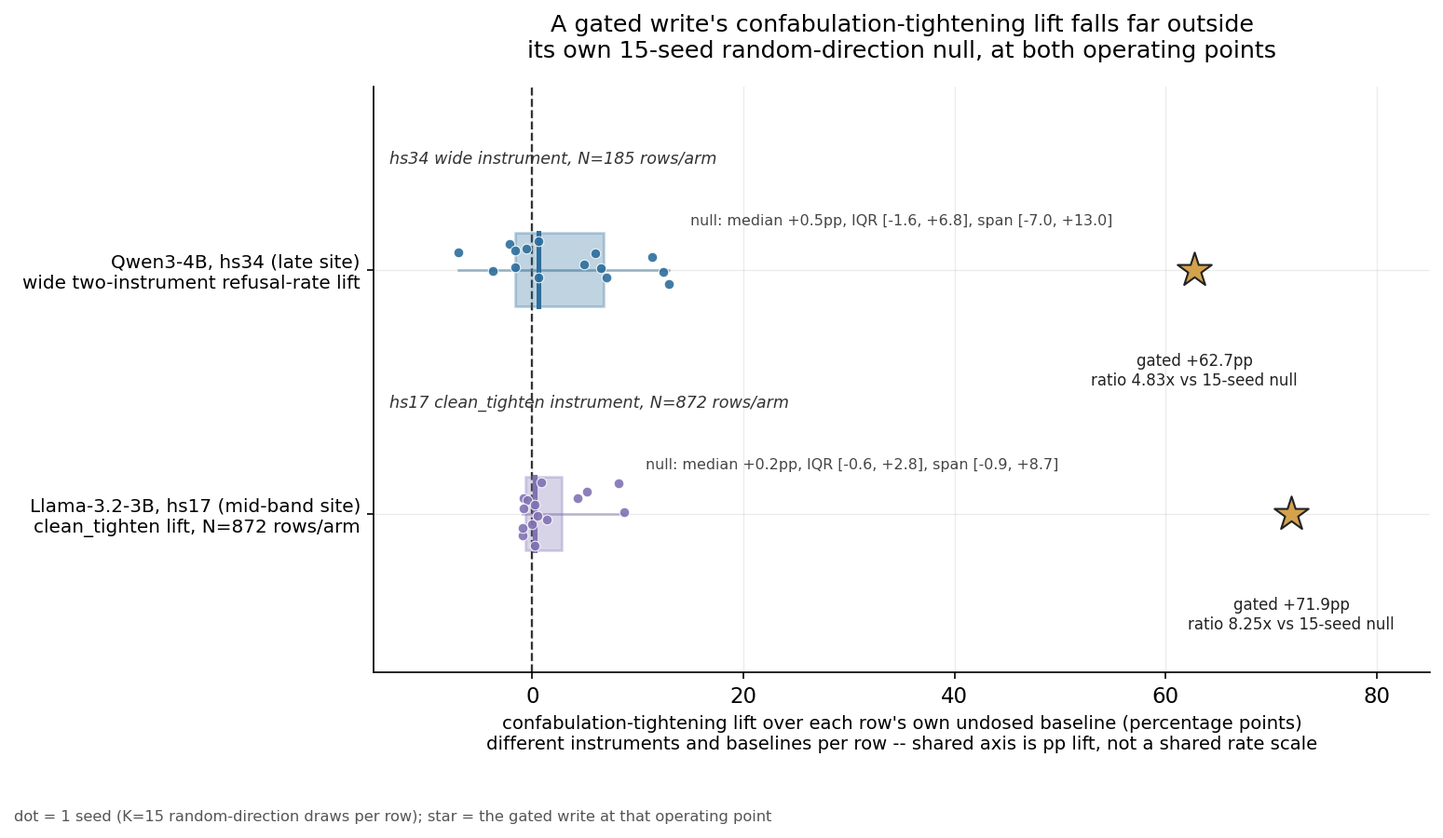
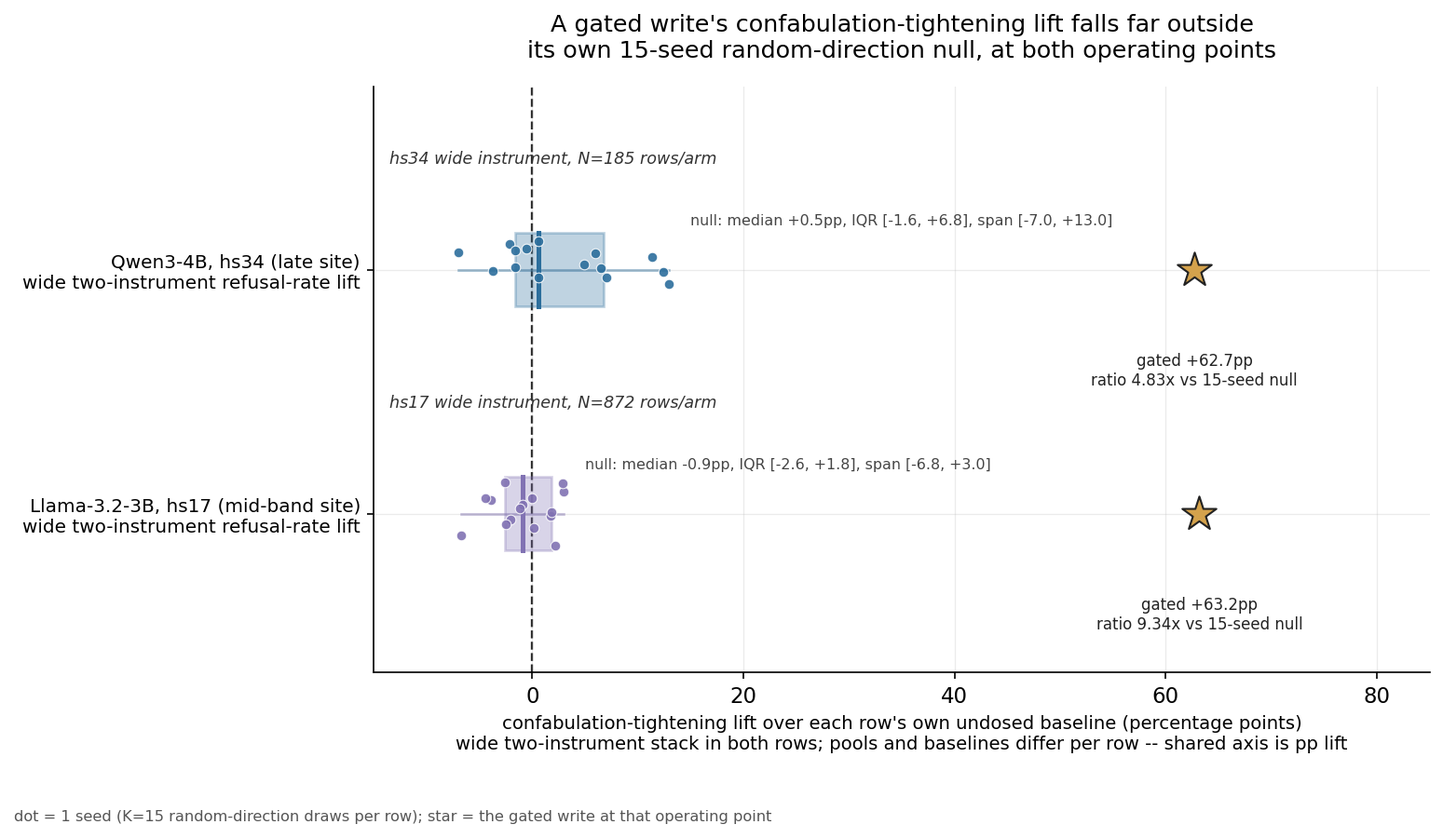
Paper 5: llama hs17 wide-instrument result (Outcome A) into 4.8/6.5, Figure 10 both rows wide
Section 4.8 Llama subsection now carries the wide two-instrument numbers
as the finding (wide baseline 0.156 to 0.788, net lift +63.2pp, ratio
9.34 over the fifteen-seed write-site null, with the narrow-instrument
ratio 8.25 as the independent same-point sample); Figure 10 rebuilt with
both rows under the wide stack (source switched to the wide-rescore
cell's committed gates report, reproduction audit updated to its
AMENDMENT Outcome); the write-site-null caution updated (the wide null
now exists); the Section 6.5 wide-re-score escalation item removed as
delivered (list renumbered); summary grid, map paragraph, recipe scope,
provenance evidence table, cell-status table, and Appendix D updated.

Claude-Session: https://claude.ai/code/session_012M6wLjiA3PHuTRN3V72TWD

diff --git a/papers/paper-5-actuation/scripts/build_specificity_census_fig.py b/papers/paper-5-actuation/scripts/build_specificity_census_fig.py
@@ -63,31 +63,42 @@ def close(a: float, b: float, tol: float) -> bool:
 
 # =========================================================================
 # Sources (committed result JSONs, no row-level text):
-#   Llama hs17: experiments/llama-hs17-direction-specificity/
-#     analysis-committed/llama-3.2-3b/specificity_summary.json
-#     (arm0_baseline.confab.rate, arm1_gated_replication.confab.rate,
-#      arm2_random_census.<seed>.rate)
+#   Llama hs17 (wide two-instrument stack, regenerated arms):
+#     experiments/llama-hs17-wide-instrument-rescore/
+#     analysis-committed/llama-3.2-3b/wide_gates_report.json
+#     (WR-G2.arm0_wide_confab.rate, WR-G2.net_lift,
+#      WR-G3.companion_descriptive.per_seed_signed_wide_lift.<seed>)
 #   Qwen hs34/L34: experiments/qwen3-4b-l34-placebo-seed-census/
 #     analysis-committed/wide_gates_report.json
 #     (QG_G1_distributional_specificity.frozen_baseline_rate,
 #      .frozen_gated_lift_over_baseline, per_seed.<seed>.confab_tighten_wide.rate)
 # Governed verdict text: each experiment's AMENDMENT.md, Outcome section.
 # =========================================================================
-LLAMA = load(EXP / "llama-hs17-direction-specificity" / "analysis-committed" / "llama-3.2-3b" / "specificity_summary.json")
+LLAMA = load(EXP / "llama-hs17-wide-instrument-rescore" / "analysis-committed" / "llama-3.2-3b" / "wide_gates_report.json")
 QWEN = load(EXP / "qwen3-4b-l34-placebo-seed-census" / "analysis-committed" / "wide_gates_report.json")
 
 
 def _llama_data():
-    baseline = LLAMA["arm0_baseline"]["confab"]["rate"]
-    gated_rate = LLAMA["arm1_gated_replication"]["confab"]["rate"]
-    gated_lift = gated_rate - baseline
-    seeds = sorted(LLAMA["arm2_random_census"].keys())
+    g2 = LLAMA["WR-G2"]
+    g3 = LLAMA["WR-G3"]
+    baseline = g2["arm0_wide_confab"]["rate"]
+    gated_lift = g2["net_lift"]
+    # cross-check the report's own arm1 rate against baseline + lift
+    assert close(g2["arm1_wide_confab"]["rate"], baseline + gated_lift, 1e-9)
+    per_seed = g3["companion_descriptive"]["per_seed_signed_wide_lift"]
+    seeds = sorted(per_seed.keys())
     assert len(seeds) == 15, f"llama: expected 15 random-census seeds, got {len(seeds)}"
-    lifts = [LLAMA["arm2_random_census"][s]["rate"] - baseline for s in seeds]
+    lifts = [per_seed[s] for s in seeds]
+    # cross-check against the report's per-seed wide rates
+    for s in seeds:
+        rate = g3["companion_descriptive"]["per_seed_wide"][s]["rate"]
+        assert close(rate - baseline, per_seed[s], 1e-9), s
     max_abs = max(abs(x) for x in lifts)
+    assert close(max_abs, g3["max_abs_random_lift"], 1e-9)
     effect_ratio = gated_lift / max_abs
-    n = LLAMA["arm0_baseline"]["confab"]["n"]
-    assert n == LLAMA["arm1_gated_replication"]["confab"]["n"] == 872
+    assert close(effect_ratio, g3["effect_ratio"], 1e-9)
+    n = g2["arm0_wide_confab"]["n"]
+    assert n == g2["arm1_wide_confab"]["n"] == 872
     return dict(baseline=baseline, gated_lift=gated_lift, lifts=lifts,
                 max_abs=max_abs, effect_ratio=effect_ratio, n=n)
 
@@ -121,8 +132,8 @@ def fig_specificity_census():
              label="Qwen3-4B, hs34 (late site)\nwide two-instrument refusal-rate lift",
              site_ann="hs34 wide instrument, N=185 rows/arm"),
         dict(key="llama", y=1, color=C_POOL2, data=llama,
-             label="Llama-3.2-3B, hs17 (mid-band site)\nclean_tighten lift, N=872 rows/arm",
-             site_ann="hs17 clean_tighten instrument, N=872 rows/arm"),
+             label="Llama-3.2-3B, hs17 (mid-band site)\nwide two-instrument refusal-rate lift",
+             site_ann="hs17 wide instrument, N=872 rows/arm"),
     ]
 
     box_h = 0.30
@@ -176,7 +187,7 @@ def fig_specificity_census():
     ax.set_ylim(0.35, 2.75)
     ax.set_xlim(-15, 85)
     ax.set_xlabel("confabulation-tightening lift over each row's own undosed baseline (percentage points)\n"
-                  "different instruments and baselines per row -- shared axis is pp lift, not a shared rate scale",
+                  "wide two-instrument stack in both rows; pools and baselines differ per row -- shared axis is pp lift",
                   fontsize=9.4)
     ax.set_title("A gated write's confabulation-tightening lift falls far outside\n"
                  "its own 15-seed random-direction null, at both operating points",
@@ -191,11 +202,11 @@ def fig_specificity_census():
 
     # ---- reproduction audit: recomputed values must equal the governed
     # AMENDMENT.md Outcome text for each experiment ----
-    # Llama: experiments/llama-hs17-direction-specificity/AMENDMENT.md,
-    # Outcome section (LG-G2 row and "Supporting numbers" bullets).
+    # Llama: experiments/llama-hs17-wide-instrument-rescore/AMENDMENT.md,
+    # Outcome section (WR-G2 and WR-G3 rows).
     LLAMA_CHECK = dict(
-        gated_lift=0.7190, max_abs_random_lift=0.0872, effect_ratio=8.25,
-        median_lift=0.0023, sign_pos=9, sign_neg=5, sign_zero=1,
+        gated_lift=0.6319, max_abs_random_lift=0.0677, effect_ratio=9.34,
+        median_lift=-0.0092, sign_pos=6, sign_neg=8, sign_zero=1,
     )
     lifts_llama = llama["lifts"]
     assert close(llama["gated_lift"], LLAMA_CHECK["gated_lift"], 0.0005)

diff --git a/papers/paper-5-actuation/manuscript.md b/papers/paper-5-actuation/manuscript.md
@@ -1173,31 +1173,35 @@ Llama carries a direction-specific verified write — at its own
 profile-selected mid-band site, not at the read-selected sites the atlas
 ladder dosed. At hs17, relative depth 0.607, the one Llama site that
 clears a held-out abstention floor (Section 6.5), the gated write reaches
-held-out confabulation tightening of 635/872 = 0.728 (Wilson 95% CI
-[0.698, 0.757]) against a 0.50 floor. And it is direction-specific:
-against fifteen matched-dose random unit directions at the same site, the
-strongest random arm reaches 0.096, a lift of +8.7 points over the 0.9%
-undosed baseline against the gated write's +71.9, an effect ratio of 8.25
-against the 3.0 floor. The known-correct cost gate is not adjudicable at
-this operating point, and the reason is itself the selectivity the gate
-exists to supply: the known-unknown gate fires on 0 of 334 held-out
-known-correct rows, so there is no fired population to measure a cost rate
-on, and the unconditional 0/334 false refusals is reported descriptively
-rather than as a gated claim. The result stands on the parent cell's
-narrow clean-tightening instrument; a wide-instrument re-score, with a
-write-site null under the wide stack, is what stands between these numbers
-and the wide-instrument rows above.
+held-out confabulation tightening of 637/872 = 0.731 (Wilson 95% CI
+[0.700, 0.759]) against a 0.50 floor, and under the wide two-instrument
+stack, the same instrument set the Mistral and Qwen wide rows above carry,
+it lifts wide-instrument abstention from a 15.6% undosed baseline to
+78.8%, a net lift of +63.2 points. It is direction-specific under that
+stack: against fifteen matched-dose random unit directions at the same
+site and dose, the largest absolute wide lift any random direction
+produces is 6.8 points, an effect ratio of 9.34 against the 3.0 floor,
+and the random census has no consistent sign (six seeds up, eight down,
+median −0.9 points). The same fifteen directions under the narrow
+clean-tightening instrument give a ratio of 8.25 on an independent sample
+of the same operating point, so the verdict does not depend on the
+instrument. The known-correct cost gate is not adjudicable at this
+operating point, and the reason is itself the selectivity the gate exists
+to supply: the known-unknown gate fires on 0 of 334 held-out known-correct
+rows, so there is no fired population to measure a cost rate on, and the
+unconditional 0/334 false refusals is reported descriptively rather than
+as a gated claim.
 
 ![FIG-P5-10: Gated-write abstention lift versus a fifteen-seed random-direction null at the Qwen late-site and Llama mid-band operating points](figures/fig-p5-10-specificity-census.png)
 **Figure 10.** The gated write sits far outside its own fifteen-seed
 random-direction null at both operating points that pass the distributional
-specificity test: raw-base Qwen3-4B at the late site hs34 under the wide
-two-instrument stack (gated +62.7 points over baseline, largest random
-+13.0, ratio 4.83) and Llama-3.2-3B at its mid-band site hs17 under the
-narrow clean-tightening instrument (gated +71.9 points, largest random
-+8.7, ratio 8.25). Each row's lifts are percentage points over that row's
-own undosed baseline; the rows use different instruments and pools, so the
-shared axis compares lifts, not a common rate scale.
+specificity test, both scored under the wide two-instrument stack: raw-base
+Qwen3-4B at the late site hs34 (gated +62.7 points over baseline, largest
+random +13.0, ratio 4.83) and Llama-3.2-3B at its mid-band site hs17
+(gated +63.2 points, largest random +6.8, ratio 9.34). Each row's lifts
+are percentage points over that row's own undosed baseline; the rows use
+different pools and baselines, so the shared axis compares lifts, not a
+common rate scale.
 
 At the read-selected atlas sites, by contrast, Llama is not shown actuable:
 the gated write fails on format collapse before reaching the refusal
@@ -1216,11 +1220,10 @@ A caution travels with Llama's entry in the placebo census below, and it
 applies well beyond Llama. Read-optimal and actuate-optimal depth are
 separately measured quantities in this paper, and for Llama they are not
 the same site: that census distribution is measured at its read-selected
-site, relative depth 0.714. The write site has its own fifteen-seed null
-under the narrow instrument — random directions at hs17 land between 0.0%
-and 9.6% tightening against the gated write's 72.8% — but no
-wide-instrument null exists at the write depth, so the suppressive
-read-site distribution should not be quoted as the write site's null.
+site, relative depth 0.714, and it is suppressive there. The write site
+carries its own fifteen-seed null, measured under both instruments
+(Figure 10), and the two distributions do not resemble each other, so
+the read-site distribution should not be quoted as the write site's null.
 
 #### Gemma
 
@@ -1337,9 +1340,10 @@ sign is not homogeneous within a family either.
 
 Read together, the four families fall along a spectrum rather than splitting
 into pass and fail. Qwen passes direction-specificity against the 3.0 floor.
-Llama passes it too, at its own mid-band write site (8.25 under the narrow
-instrument, with a fifteen-seed denominator), while remaining not shown
-actuable at its read-selected sites. Mistral actuates, with its benefit and
+Llama passes it too, at its own mid-band write site (9.34 under the wide
+two-instrument stack, 8.25 under the narrow, both with fifteen-seed
+denominators), while remaining not shown actuable at its read-selected
+sites. Mistral actuates, with its benefit and
 cost gates clearing, but reaches only
 1.87 at the site tested here and 2.03 on an independent re-measurement at the
 same operating point, on fresh rows under a stricter fifteen-seed
@@ -1364,7 +1368,7 @@ Taken together, the channels sort by how far each one gets before it breaks.
 | Write site, mid-band versus late (Qwen3-4B) | Mid-band wins by 22.7 points at +0.78 points of cost |
 | Token-target write (Qwen3-4B, mid-band) | Real on its own (47.6%), redundant on top of the boundary push (+0.54 points) |
 | Cross-family, Mistral-7B-v0.3 | Benefit and cost gates pass under a blinded wide instrument; direction-specificity fails at every site tested |
-| Cross-family, Llama-3.2-3B | At its own mid-band site (hs17) the gated write clears its held-out abstention floor (0.728) and is direction-specific (ratio 8.25 over fifteen seeds, narrow instrument; cost gate not adjudicable, KU fires 0/334). At its read-selected atlas-band sites it fails on format collapse before the refusal floor, under narrow and wide instruments alike |
+| Cross-family, Llama-3.2-3B | At its own mid-band site (hs17) the gated write clears its held-out abstention floor (0.731) and is direction-specific under both instruments (ratio 9.34 wide, 8.25 narrow, fifteen seeds each; cost gate not adjudicable, KU fires 0/334). At its read-selected atlas-band sites it fails on format collapse before the refusal floor, under narrow and wide instruments alike |
 | Cross-family, Gemma-4-E4B | Behavioral gates pass at four of the eight depths tested; no tested site reaches the direction-specificity floor |
 
 Five readings come out of that grid.
@@ -1403,7 +1407,7 @@ Five readings come out of that grid.
    known-correct cost, while direction-specificity fails on Mistral at
    three independent operating points and on gemma at both above-seam sites
    where a usable dose existed. Llama cuts the other way: specificity fails
-   at every read-selected site and verifies at 8.25 at the family's own
+   at every read-selected site and verifies at 9.34 at the family's own
    mid-band write site. The boundary is a site-selection boundary, not a
    family one: specificity appears where a family's own site search finds
    it, and the Qwen and Llama searches have found it so far.
@@ -1676,8 +1680,9 @@ Recommended escalation, in order of priority:
    linearly in all four families audited, and a held-out contrast at each
    family's own profile-selected mid-band site has since run on two of the
    four registered families: Llama clears its abstention floor at its own
-   mid-band site, with its placebo arm passing (clean tightening 0.728
-   against a 0.50 floor, ratio 8.25 over fifteen seeds, Section 4.8), and
+   mid-band site, with its placebo arm passing under both instruments
+   (clean tightening 0.731 against a 0.50 floor; ratio 9.34 wide and 8.25
+   narrow over fifteen seeds, Section 4.8), and
    Mistral misses the same floor marginally (0.489, with its confidence
    interval straddling the floor). The roll-up rule declares fewer than
    three families inconclusive, so the cross-family question is still
@@ -1703,29 +1708,17 @@ Recommended escalation, in order of priority:
    instability; either way, a future attempt needs an operating point where
    the nonspecific response is small or stable, with its placebo criterion
    registered against the family's measured null distribution there.
-4. A Llama operating point under the wide instrument. The wide-instrument
-   retest of Llama's atlas sites forecloses that ladder: no dose both
-   clears the abstention floor and leaves output well-formed,
-   so a held-out pass is not reachable at those sites. The mid-band route
-   delivers what the atlas route cannot: the hs17 write clears its
-   held-out abstention floor and passes direction-specificity at 8.25 over
-   fifteen seeds (Section 4.8), under the parent's narrow instrument. The
-   remaining ask is the wide-instrument re-score of that operating point —
-   including a write-site random-direction null under the wide stack,
-   since the suppressive read-site census cannot stand in for it — before
-   Llama's mid-band numbers are set beside the wide-instrument rows of the
-   other families.
-5. Gemma's key-value sharing seam: the coverage question is closed (Section
+4. Gemma's key-value sharing seam: the coverage question is closed (Section
    4.8 and Appendix F) and the mechanism question is not. It cannot be settled
    by writing to
    more above-seam sites, because relative depth and sharing status are the
    same variable across all of them; it needs an ablation that suppresses key
    and value sharing without breaking the model, which the one built here did
    not manage.
-6. Dense-token screen: separately screen abstract or multilingual token
+5. Dense-token screen: separately screen abstract or multilingual token
    bundles before any causal hybrid run, as a follow-on to the natural-token
    result in Section 4.7.
-7. Adjacent behavioral axes. An interim pilot on an answer-sycophancy
+6. Adjacent behavioral axes. An interim pilot on an answer-sycophancy
    direction found it readable while its actuator failed to beat a matched
    control. It is not a governed result and carries no evidence here, but the
    pattern it points at, a readable behavioral direction that does not become
@@ -1835,7 +1828,7 @@ argument belongs to the mid-band point where the null is measured as a
 distribution and is no part of the recipe — at the raw-base late site the
 random null has no consistent sign, and the specificity claim there rests on
 the 4.83 distributional ratio alone — and the recipe is not Qwen-only, since
-Llama's own mid-band site verifies at 8.25 over fifteen seeds. What remains
+Llama's own mid-band site verifies at 9.34 over fifteen seeds. What remains
 open is Mistral: if an operating point with a small or stable nonspecific
 response still fails the ratio test, and gemma's seam ablation never yields a
 clean site, the recipe reading narrows to families whose site search finds a
@@ -1928,6 +1921,7 @@ and its recorded status.
 | Initial cross-family run: gated write does not actuate FIT-viable canonical clean refusal at either atlas-located non-Qwen site under the locked three-phrase detector; Llama fails on format collapse before the refusal floor, Mistral peaks 0.579 vs the 0.60 floor with the miss substantially canonical-phrase coverage | `experiments/rr-cross-family-raw-refusal/AMENDMENT.md` Outcome | Exploratory falsification (detector-vocabulary scope disclosed; superseded by the RR2 wide-instrument re-read on Mistral and the Llama wide-instrument retest) |
 | Llama wide-instrument retest: shape F robust to the certified wide instrument; the wide stack credits idioms the narrow detector missed (best well-formed rung 0.328 -> 0.457) but no well-formed rung reaches the 0.60 floor, and the rungs above 0.5 are format-broken with runaway known-correct false refusal; at the well-formed peak the effect is direction-specific (ratio 3.73) | `experiments/llama-atlas-gated-wide-instrument-retest/AMENDMENT.md` Outcome | Exploratory confirmation (R1: Llama not a coverage artifact) |
 | Llama hs17 mid-band write replicates held-out (clean tightening 635/872 = 0.7282, Wilson [0.6977, 0.7567], vs parent 0.7420) and is direction-specific against 15 matched-dose random directions (strongest random arm 0.0963, gated lift 0.7190 vs max abs random lift 0.0872, effect ratio 8.25 vs 3.0 floor); known-correct cost gate NOT-ADJUDICABLE (KU fired 0/334; unconditional false refusal 0/334 descriptive), as pre-registered; narrow parent instrument, no wide re-score | `experiments/llama-hs17-direction-specificity/AMENDMENT.md` Outcome | Exploratory, resolved; prediction confirmed |
+| Wide-instrument regeneration of the Llama hs17 operating point (same 15 random-direction seeds, fresh decode seed, text-persisting harness): regeneration bridge 637/872 = 0.7305 narrow clean tightening (third consistent sample: parent 0.7420, resolved narrow cell 0.7282); wide net lift 0.6319 (arm0 136/872 = 0.1560, arm1 687/872 = 0.7878) vs a 0.30 floor; effect ratio 9.34 vs 3.0 (max abs random wide lift 0.0677, census 6+/8-/1 zero, median -0.0092); cost gate NOT-ADJUDICABLE (KU fired 0/334); grader calibration 19/19 shards, pooled clear-positive 534/691 = 0.7728 | `experiments/llama-hs17-wide-instrument-rescore/AMENDMENT.md` Outcome | Exploratory, resolved; Llama direction-specificity instrument-robust (Outcome A) |
 | Raw-base Qwen3-4B late-site (hs34) 15-seed placebo census: specificity survives the distributional denominator (max abs random lift 13.0pp, effect ratio 4.83 vs 3.0 floor, QG-G1 PASS) but sign-consistency fails (6/15 seeds negative vs >=12 required, QG-G2 FAIL); the historical seed draw's -4.3pp suppressive lift is a draw accident; specificity claim upgraded to distributional form, sign-opposition claim retired | `experiments/qwen3-4b-l34-placebo-seed-census/AMENDMENT.md` Outcome | Exploratory, resolved MIXED; reported straight |
 | Mistral cross-family gated write cleared benefit (69.9% adjudicated refusal) and cost (0.52% known-correct) gates under a wide blinded instrument but failed the flat 2-point placebo tolerance (+7.39pp random-direction lift) | `experiments/rr2-mistral-adjudicated-refusal-confirm/AMENDMENT.md` Outcome | Exploratory falsification (placebo-criterion design flaw, not benefit/cost) |
 | Wide-instrument baseline hedging and placebo response are family-graded and family-signed (qwen -5.13pp suppression, Mistral +7.39pp recruitment); flat placebo tolerances must be registered per-family | `experiments/abstention-wide-instrument-calibration/AMENDMENT.md` Outcome | Exploratory instrument calibration, resolved |
@@ -1985,6 +1979,7 @@ Generated by `papers/paper-5-actuation/scripts/build_coverage_table.py` (determi
 | `rr-cross-family-raw-refusal` | falsified | checkpoint.repo (verbatim): "cross-family (two atlas-mapped substrates)"; checkpoint.revision (verbatim): "see cell.yaml families (revisions pinned from fleet model_matrix.yaml at sign)". DECLARED in cell.yaml: unsloth/Llama-3.2-3B-Instruct @ 006f5dcd1393c3add266de40994ba96225e9689d; mistralai/Mistral-7B-Instruct-v0.3 @ c170c708c41dac9275d15a8fff4eca08d52bab71; confirmatory execution model (batch verbs for baseline/capture; mechinterp steer for writes) | DECLARED 3 checkpoint(s) (matrix) -- LAUNCHED subset is NOT machine-separable from YAML; see AMENDMENT.md Outcome. Governed verdict field: "Falsified, both families shape F: the doubt-gated caution write does not actuate FIT-viable canonical clean refusal at either atlas-located non-Qwen site; llama fails on format collapse before the refusal floor (robust t..." | 4.8, 6.5 |
 | `llama-atlas-gated-wide-instrument-retest` | resolved | `unsloth/Llama-3.2-3B-Instruct` @ `006f5dcd1393c3add266de40994ba96225e9689d` | 1 declared / 1 launched (single-substrate cell) | 4.8 |
 | `llama-hs17-direction-specificity` | resolved | `unsloth/Llama-3.2-3B-Instruct` @ `raw-base (bf16 instruct, no adapter, no 4-bit quantization)` | 1 declared / 1 launched (single-substrate cell) | 4.8, 6.5 |
+| `llama-hs17-wide-instrument-rescore` | resolved | `unsloth/Llama-3.2-3B-Instruct` @ `raw-base (bf16 instruct, no adapter, no 4-bit quantization)` | 1 declared / 1 launched (single-substrate cell) | 4.8, 6.5 |
 | `qwen3-4b-l34-placebo-seed-census` | resolved | `unsloth/Qwen3-4B` @ `raw-base (no adapter; bf16, no 4-bit quantization)` | 1 declared / 1 launched (single-substrate cell) | 4.8, 6.4, 7 |
 | `rr2-mistral-adjudicated-refusal-confirm` | falsified | checkpoint.repo empty in experiment.yaml. DECLARED in cell.yaml: mistralai/Mistral-7B-Instruct-v0.3 @ c170c708c41dac9275d15a8fff4eca08d52bab71; direct InterventionHook/GenerationInterventionController/RunLog driving (RR precedent, not the mechinterp-steer YAML recipe path) | DECLARED 2 checkpoint(s) (matrix) -- LAUNCHED subset is NOT machine-separable from YAML; see AMENDMENT.md Outcome. Governed verdict field: "Falsified on the placebo leg: the blinded adjudicated instrument confirms idiom-inclusive mistral refusal at 0.699 with pristine cost, vindicating the RR detector-width caveat, but a magnitude-matched random direction li..." | 4.8, 6.5 |
 | `abstention-wide-instrument-calibration` | resolved | checkpoint.repo empty in experiment.yaml. DECLARED in cell.yaml: qwen35-4b; llama32-3b; mistral7b-v03 | DECLARED 3 checkpoint(s) (matrix) -- LAUNCHED subset is NOT machine-separable from YAML; see AMENDMENT.md Outcome. Governed verdict field: "Resolved: wide-instrument baseline abstention is family-graded (qwen 0.104, llama 0.164, mistral 0.280) and placebo response is family-specific in sign (qwen suppresses -5.13 points where mistral recruits +7.39), so the ..." | 4.8, 6.5 |
@@ -2074,11 +2069,10 @@ gap between prediction and result without consulting the text.
   per-family wide-instrument baselines (qwen 0.104, Llama 0.164,
   Mistral 0.280) still anchor the recruitment-versus-suppression axis.
 - Llama's gated boundary push passes direction-specificity at its own
-  actuation-selected site (fifteen-seed placebo arm, Section 4.8), under the
-  parent's narrow instrument. The remaining step is
-  the wide-instrument re-score of that operating point, with a write-site
-  null under the wide stack; the read-site placebo null is measured and
-  suppressive, so it cannot serve as the write site's null control.
+  actuation-selected site under both instruments (fifteen-seed placebo
+  arms, ratio 9.34 wide and 8.25 narrow, Section 4.8). The wide-instrument
+  re-score with a write-site null (`llama-hs17-wide-instrument-rescore`) is
+  done; no open work remains on this item.
 - The `doubt-regulated-caution` cell (trained-lineage predecessor context) and
   the `evidence-response-direction-search` null remain front-matter and
   Appendix A entries only, per the paper's raw-base scope.

diff --git a/papers/paper-5-actuation/figures/MANIFEST.md b/papers/paper-5-actuation/figures/MANIFEST.md
@@ -229,23 +229,25 @@ results-analyst pass, not by the script).
 
 ## fig-p5-10-specificity-census.png
 
-Two direction-specificity seed censuses side by side: each write's
-confabulation-tightening lift over its own undosed baseline against a
-15-seed matched-dose random-direction null, at the Qwen3-4B late site
-(hs34/L34, wide two-instrument refusal-rate metric) and the Llama-3.2-3B
-mid-band site (hs17, clean_tighten metric). Built by
+Two direction-specificity seed censuses side by side, both under the wide
+two-instrument refusal-rate metric: each write's confabulation-tightening
+lift over its own undosed baseline against a 15-seed matched-dose
+random-direction null, at the Qwen3-4B late site (hs34/L34) and the
+Llama-3.2-3B mid-band site (hs17). Built by
 `papers/paper-5-actuation/scripts/build_specificity_census_fig.py`
 (deterministic apart from cosmetic seed-dot jitter, fixed RNG seeds in the
 script; CPU only, no network).
 
-- Source: `experiments/llama-hs17-direction-specificity/analysis-committed/llama-3.2-3b/specificity_summary.json`
-  -- amendment: `experiments/llama-hs17-direction-specificity/AMENDMENT.md`
-  (Outcome section: LG-G1 replication PASS 0.7282, LG-G2 direction-specificity
-  PASS, effect ratio 8.25). Fields used: `arm0_baseline.confab.rate`,
-  `arm1_gated_replication.confab.rate`, `arm2_random_census.<seed>.rate`
-  for all 15 seeds (910001-910015); per-seed lifts are recomputed as
-  `arm2_random_census[seed].rate - arm0_baseline.confab.rate`, not read from
-  the JSON's own `companion_descriptive` block, though the two agree exactly.
+- Source: `experiments/llama-hs17-wide-instrument-rescore/analysis-committed/llama-3.2-3b/wide_gates_report.json`
+  -- amendment: `experiments/llama-hs17-wide-instrument-rescore/AMENDMENT.md`
+  (Outcome section: WR-G2 wide replication PASS, net lift 0.6319; WR-G3
+  wide direction-specificity PASS, effect ratio 9.34). Fields used:
+  `WR-G2.arm0_wide_confab.rate`, `WR-G2.net_lift`, and
+  `WR-G3.companion_descriptive.per_seed_signed_wide_lift.<seed>` for all
+  15 seeds (910001-910015); each per-seed lift is cross-checked in the
+  script against `per_seed_wide[seed].rate - arm0_wide_confab.rate`
+  (exact match required), and the max-abs lift and effect ratio are
+  asserted equal to the report's own `WR-G3` fields.
 - Source: `experiments/qwen3-4b-l34-placebo-seed-census/analysis-committed/wide_gates_report.json`
   -- amendment: `experiments/qwen3-4b-l34-placebo-seed-census/AMENDMENT.md`
   (Outcome section: QG-G1 distributional specificity PASS, effect ratio 4.83;
@@ -255,11 +257,12 @@ script; CPU only, no network).
   for all 15 seeds (920001-920015); per-seed lifts are recomputed the same
   way and cross-checked against the JSON's own `lift_over_baseline_signed`
   field (exact match).
-- The two rows plot pp lift on a shared x-axis but different instruments,
-  metrics, and baselines; the figure and its axis label say so directly, and
-  each row is labeled with its own site, instrument, and N. The build script
-  embeds a reproduction audit: every plotted lift, median, IQR, span, sign
-  count, and effect ratio is recomputed from the two JSONs above and asserted
-  against the governed AMENDMENT.md Outcome numbers, failing loudly on any
-  mismatch. QG-G2's sign-consistency failure is not plotted here; this figure
-  is scoped to QG-G1/LG-G2 (distributional direction-specificity) only.
+- The two rows share the wide two-instrument metric but plot pp lift over
+  different pools and baselines on a shared x-axis; the figure and its axis
+  label say so directly, and each row is labeled with its own site,
+  instrument, and N. The build script embeds a reproduction audit: every
+  plotted lift, median, IQR, span, sign count, and effect ratio is
+  recomputed from the two JSONs above and asserted against the governed
+  AMENDMENT.md Outcome numbers, failing loudly on any mismatch. QG-G2's
+  sign-consistency failure is not plotted here; this figure is scoped to
+  QG-G1/WR-G3 (distributional direction-specificity) only.
